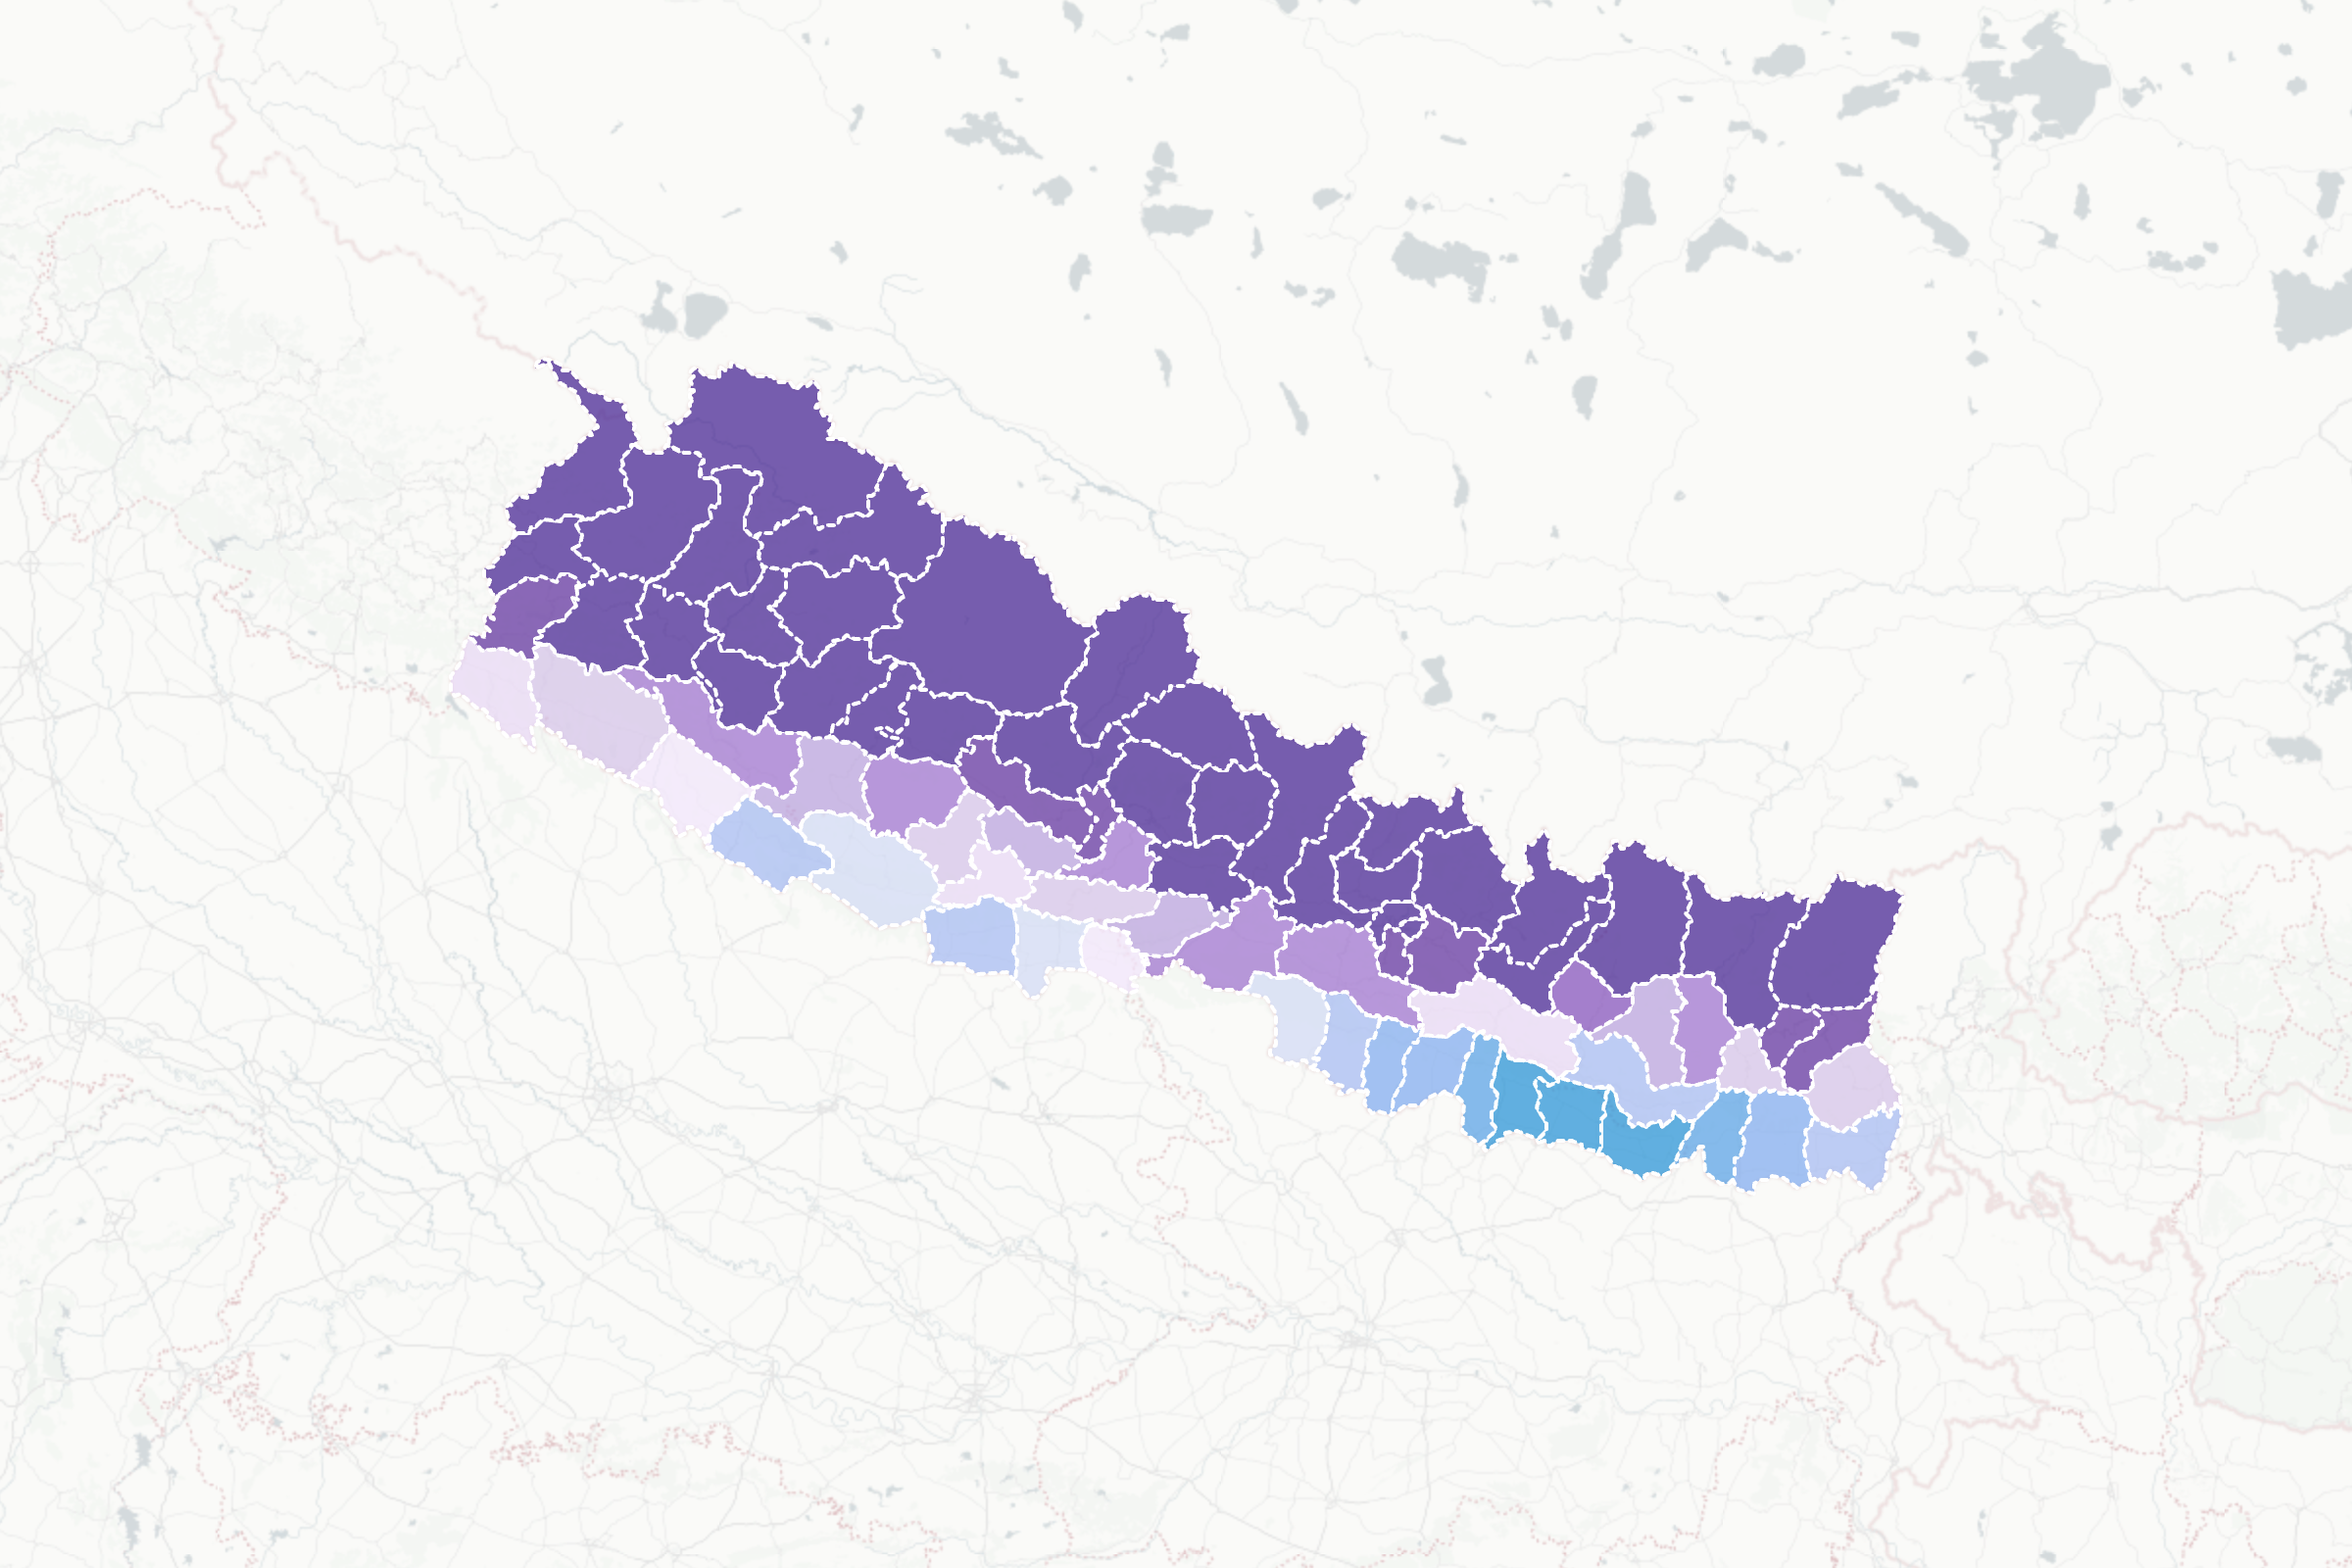
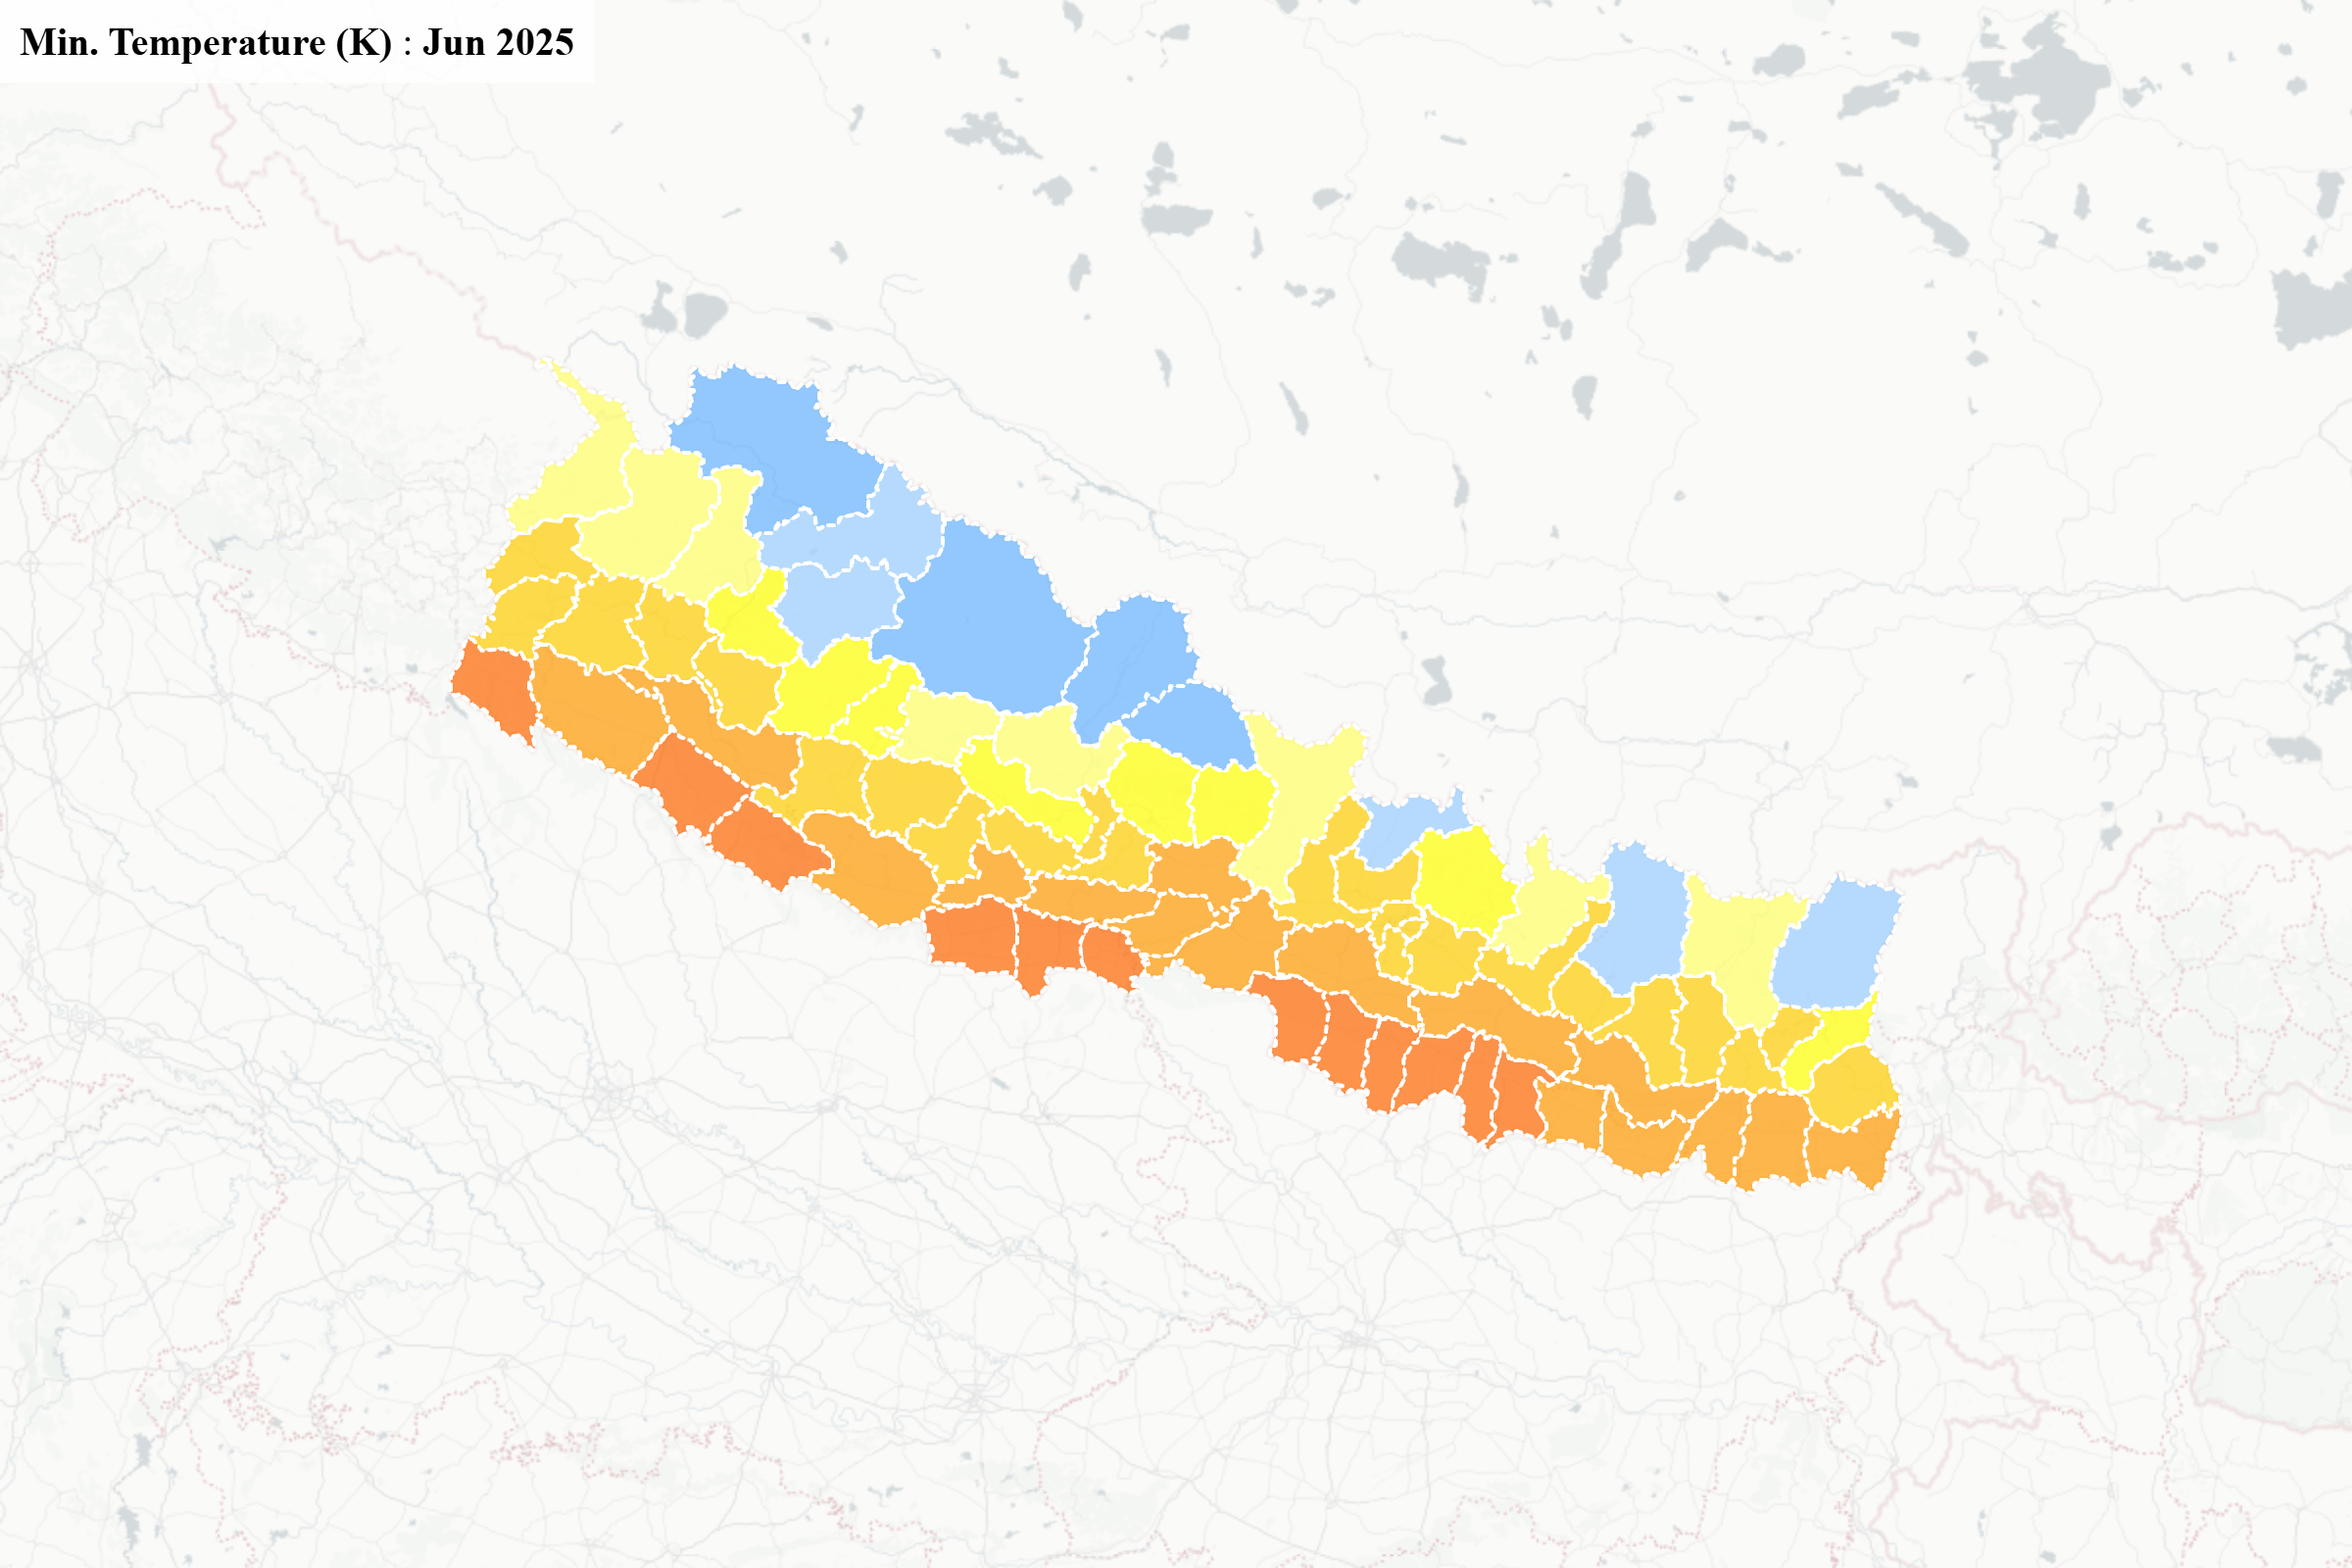
added date overlay

diff --git a/backend/server.js b/backend/server.js
@@ -111,6 +111,33 @@ app.post("/api/generate-map", async (req, res) => {
             deviceScaleFactor: 2, // For better resolution
         });
 
+                // Function to format date
+                function formatDate(date) {
+                    const options = { year: 'numeric', month: 'short' };
+                    const formattedDate = new Date(date).toLocaleDateString('en-US', options);
+                    return formattedDate;
+                }
+
+                // Function to get user-friendly variable name
+                 function getVariableName(variable) {
+                    const variableNames = {
+                        'tas_min': 'Min. Temperature (K)',
+                        'tas_max': 'Max. Temperature (K)',
+                        'tas': 'Avg. Temperature (K)',
+                        'precipitation_rate': 'Precipitation Rate (g/m^2/s)',
+                        'total_precipitation': 'Total Precipitation (m)',
+                        'hurs': 'Relative Humidity (%)',
+                        'huss': 'Specific Humidity (Mass fraction)',
+                        'snowfall': 'Snowfall (m of water equivalent)',
+                        'snowmelt': 'Snowmelt (m of water equivalent)',
+                        'spei': 'SPEI',
+                        'ozone': 'Ozone (Dobson unit)',
+                        'ndvi': 'NDVI',
+                        'sfc_windspeed': 'Surface Wind Speed (m/s)',
+                    };
+                    return variableNames[variable] || variable;
+                }
+
         // Create the HTML content
         const htmlContent = `
             <!DOCTYPE html>
@@ -123,9 +150,22 @@ app.post("/api/generate-map", async (req, res) => {
                     <style>
                         body, html { margin: 0; padding: 0; height: 100vh; width: 100vw; }
                         #map { width: 100%; height: 100%; }
+                         #header { 
+                            background-color: rgba(255, 255, 255, 0.8); 
+                            padding: 10px; 
+                            font-size: 20px; 
+                            text-align: center; 
+                            position: absolute;
+                            top: 0;
+                            left: 0;
+                            z-index: 999;
+                        }
                     </style>
                 </head>
                 <body>
+                <div id="header">
+                <strong>${getVariableName(variable)}</strong> : <strong>${formatDate(date)}</strong>
+            </div>
                     <div id="map"></div>
                     <script>
                         const geojsonData = ${JSON.stringify(geojson)};
@@ -318,11 +358,12 @@ app.post("/api/generate-map", async (req, res) => {
                         initMap().then(() => {
                             window.mapLoadComplete = true;
                         });
+
+                
                     </script>
                 </body>
             </html>
         `;
-
         await page.setContent(htmlContent);
         await page.waitForSelector("#map");
         // Wait for map to be fully loaded
